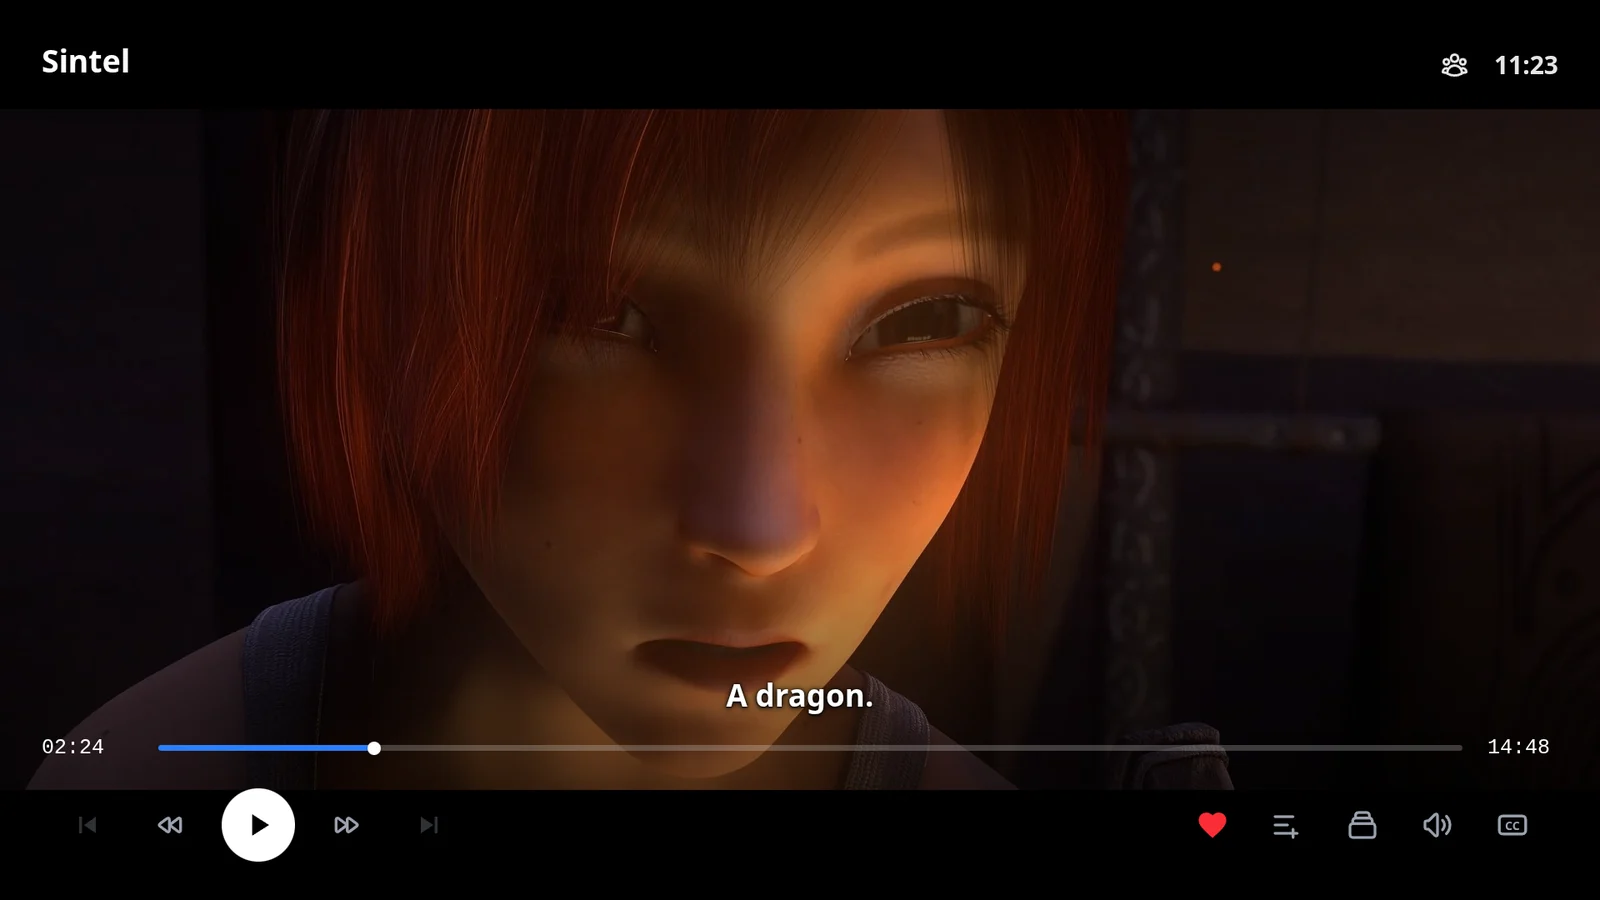
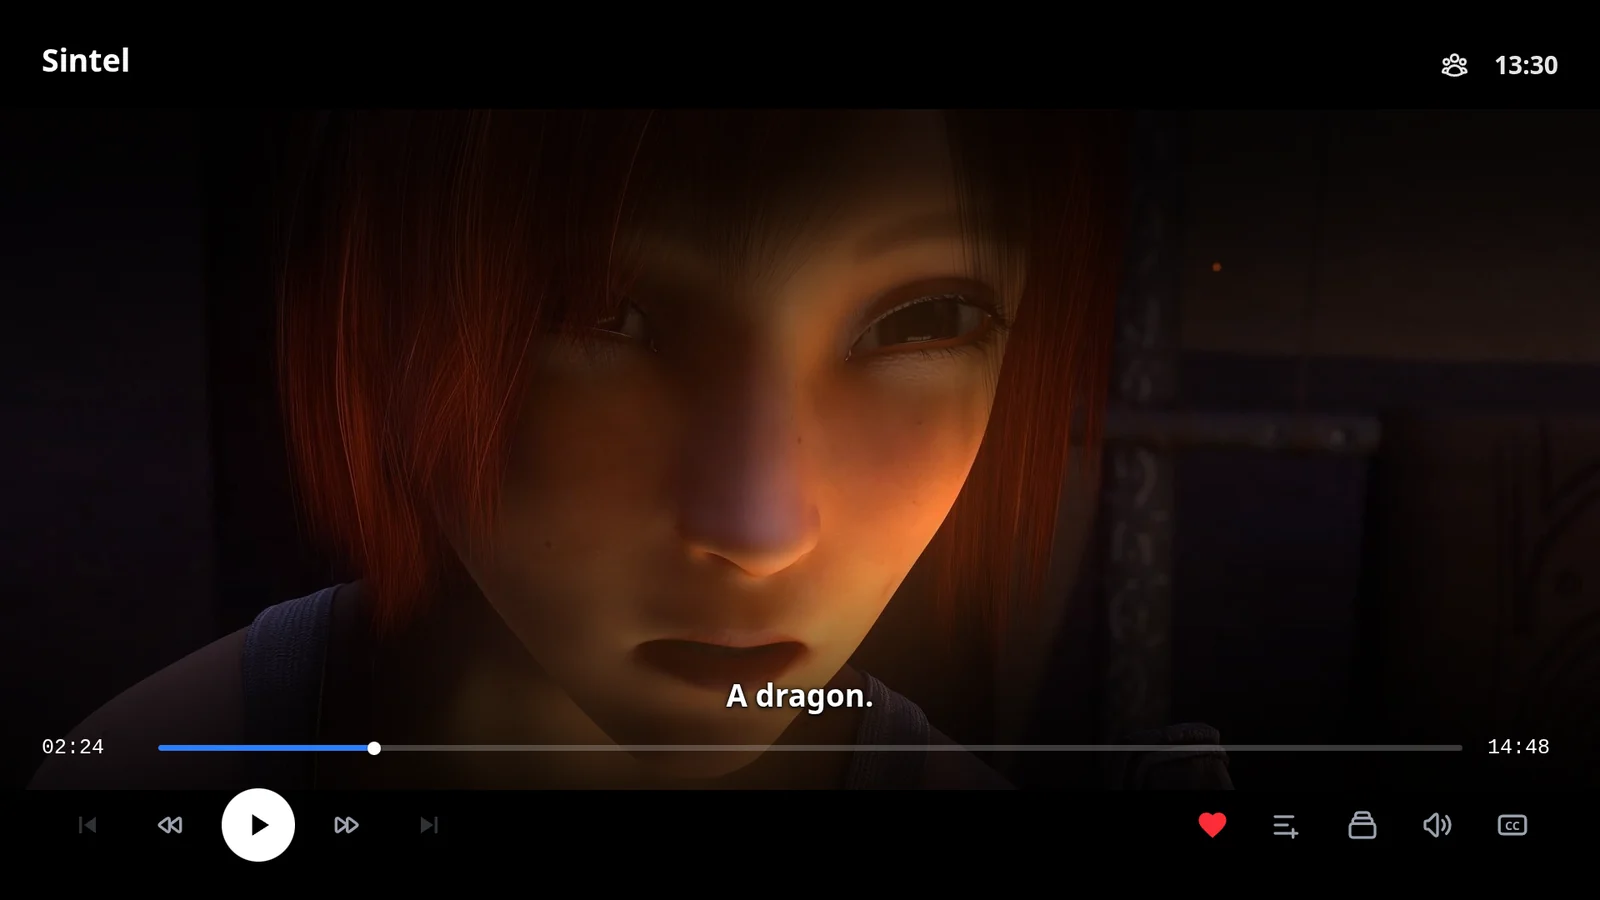
Readable episode details in the player
The series line and "Episode X of Y" are lighter, and the shade behind the controls is stronger at the top and bottom, as a smooth curve without a visible edge. On a pure white picture every HUD line now keeps at least 5.8:1 contrast (it was 1.03). A missing season name no longer leaves a stray separator. README player screenshot retaken.

diff --git a/src/components/Player.svelte b/src/components/Player.svelte
@@ -2416,10 +2416,11 @@
     </div>
   {/if}
 
-  <!-- MAIN OVERLAY — clicking the empty picture area (the overlay itself, not its buttons) pauses/plays -->
+  <!-- MAIN OVERLAY — clicking the empty picture area (the overlay itself, not its buttons) pauses/plays.
+       Its shade (.hud-shade, below) carries the HUD's text over any picture, a white one included (§147). -->
   <!-- svelte-ignore a11y_no_static_element_interactions -->
   <!-- svelte-ignore a11y_click_events_have_key_events -->
-  <div class="absolute inset-0 bg-gradient-to-t from-black/80 via-transparent to-black/50 flex flex-col justify-between p-10 transition-opacity duration-500 z-50
+  <div class="absolute inset-0 hud-shade flex flex-col justify-between p-10 transition-opacity duration-500 z-50
               {showControls ? 'opacity-100 pointer-events-auto' : 'opacity-0 pointer-events-none'}"
        onclick={(e) => { if (e.target === e.currentTarget) togglePlay(); }}>
 
@@ -2430,10 +2431,10 @@
       <div class="min-w-0">
         <h1 class="text-3xl leading-[1.3] -my-[0.05em] font-bold drop-shadow-lg line-clamp-2">{item.Name}</h1>
         {#if item.SeriesName}
-          <p class="text-gray-400 text-lg mt-1 truncate">{item.SeriesName} · {item.SeasonName}</p>
+          <p class="text-gray-200 text-lg mt-1 truncate">{[item.SeriesName, item.SeasonName].filter(Boolean).join(' · ')}</p>
         {/if}
         {#if episodePosition}
-          <p class="text-gray-500 text-base mt-0.5 font-semibold tracking-wide">{episodePosition}</p>
+          <p class="text-gray-300 text-base mt-0.5 font-semibold tracking-wide">{episodePosition}</p>
         {/if}
       </div>
       <div class="flex items-center gap-4 shrink-0">
@@ -2859,6 +2860,19 @@
   onClose={async () => { pickerMode = null; if (wasPlayingBeforePicker) videoElement?.play().catch(() => {}); wasPlayingBeforePicker = false; await tick(); if (controlOpener && document.contains(controlOpener)) controlOpener.focus(); else playerContainer?.focus(); controlOpener = null; }} />
 
 <style>
+  /* The controls' shade (§147). Its job is the HUD's text over ANY picture: on a pure white frame — the worst case, no
+     picture is brighter — every line keeps 4.5:1, down to "Episode X of Y" under a two-line title at 120 % (y ≈ 258 px,
+     24 %: 0.675 black there). Top: 0.8 black to 14 %, then a smoothstep down to nothing at 54 %; bottom: a smoothstep from
+     54 % up to 0.85 at 92 % (the time labels from 78 %). Smoothstep is flat at both ends — three straight pieces (it was
+     0.8 → 0.65 at 28 % → 0 at 50 %) left a visible edge where the slope changed. Stops = 0.8·(1 − smoothstep), 8 steps. */
+  .hud-shade {
+    background-image: linear-gradient(to bottom,
+      rgb(0 0 0 / 0.8) 14%, rgb(0 0 0 / 0.766) 19%, rgb(0 0 0 / 0.675) 24%, rgb(0 0 0 / 0.547) 29%, rgb(0 0 0 / 0.4) 34%,
+      rgb(0 0 0 / 0.253) 39%, rgb(0 0 0 / 0.125) 44%, rgb(0 0 0 / 0.034) 49%, rgb(0 0 0 / 0) 54%,
+      rgb(0 0 0 / 0.037) 58.75%, rgb(0 0 0 / 0.133) 63.5%, rgb(0 0 0 / 0.269) 68.25%, rgb(0 0 0 / 0.425) 73%,
+      rgb(0 0 0 / 0.581) 77.75%, rgb(0 0 0 / 0.717) 82.5%, rgb(0 0 0 / 0.813) 87.25%, rgb(0 0 0 / 0.85) 92%);
+  }
+
   /* JASSUB (ASS subtitles) puts its canvas right after the <video>: above the picture, below spinner and controls. */
   :global(canvas.JASSUB) { z-index: 20; }
 

diff --git a/CHANGELOG.md b/CHANGELOG.md
@@ -26,6 +26,8 @@ Notable changes to OcenFin. Versions are release dates (`YYYY.MM.DD`) and match
 - **Home banner together with the first rows.** It no longer waits for the watch history before it looks for titles,
   so its placeholder is gone at the same moment as the rest.
 - **A slightly taller home banner.** The picture behind the featured title gets a little more room.
+- **Episode details in the player stay readable.** Series, season and "Episode 2 of 8" at the top now stand out
+  over bright scenes too, as do the times at the bottom, thanks to a stronger, even shade behind the controls.
 - **Title pages complete sooner.** Seasons, episodes and suggestions now load together with the title instead of
   after it. The start, the settings and the way back onto a card also get focus as soon as there is something to focus.
 - **Search results without the wait for people.** Titles show as soon as they are found, and matching people
